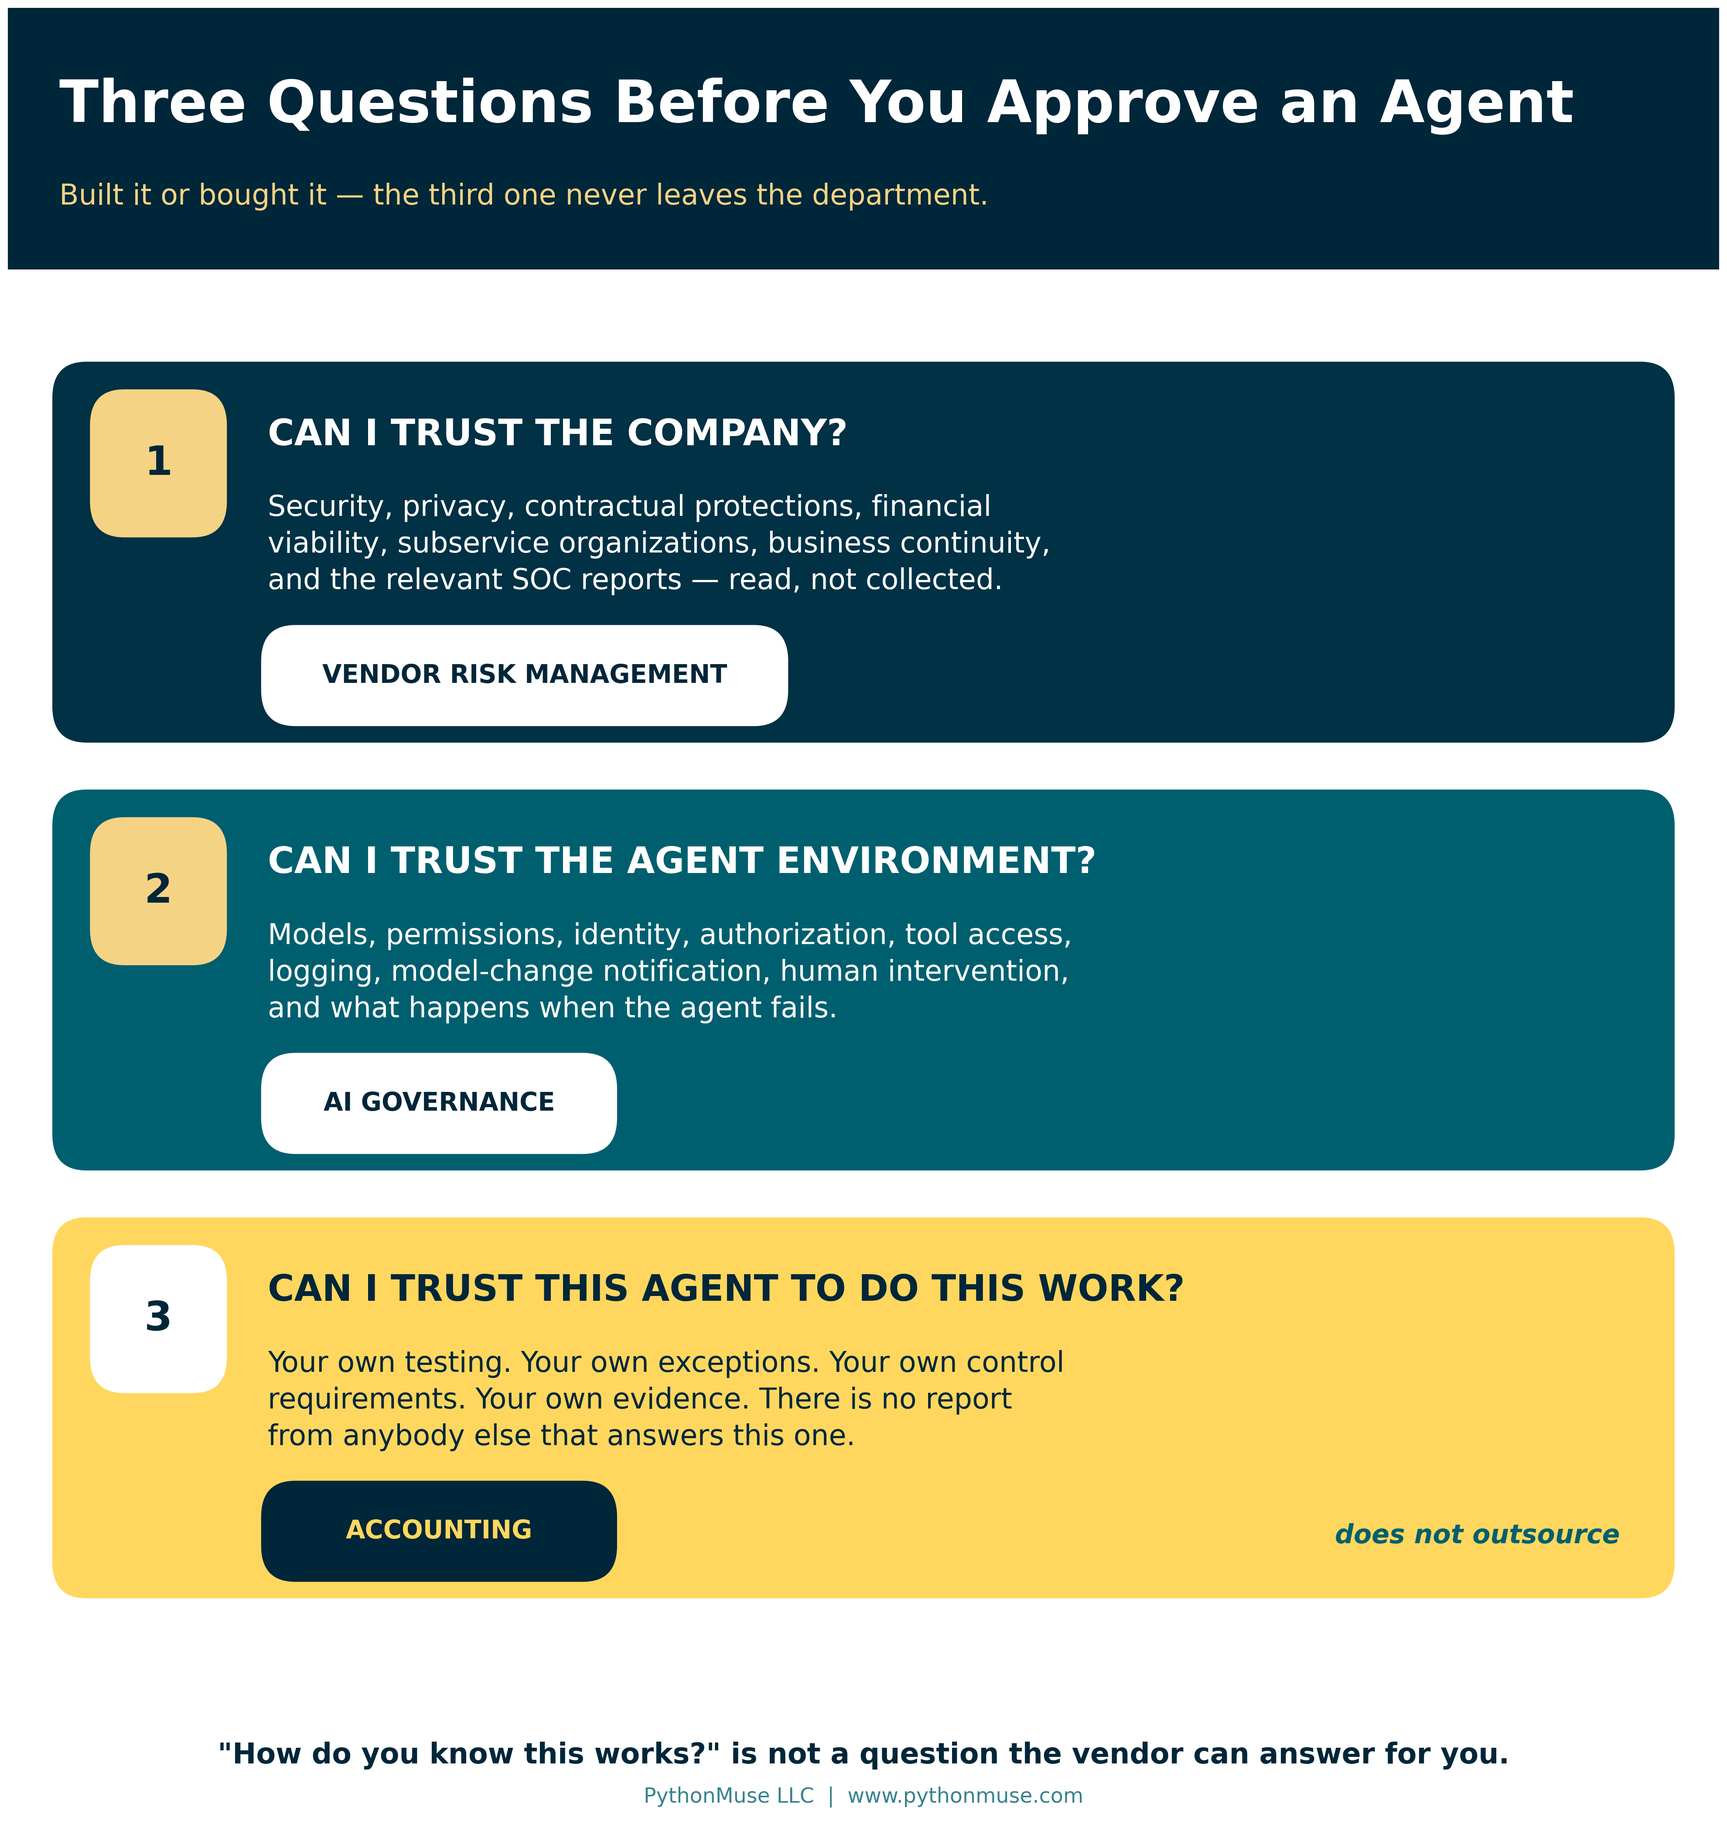
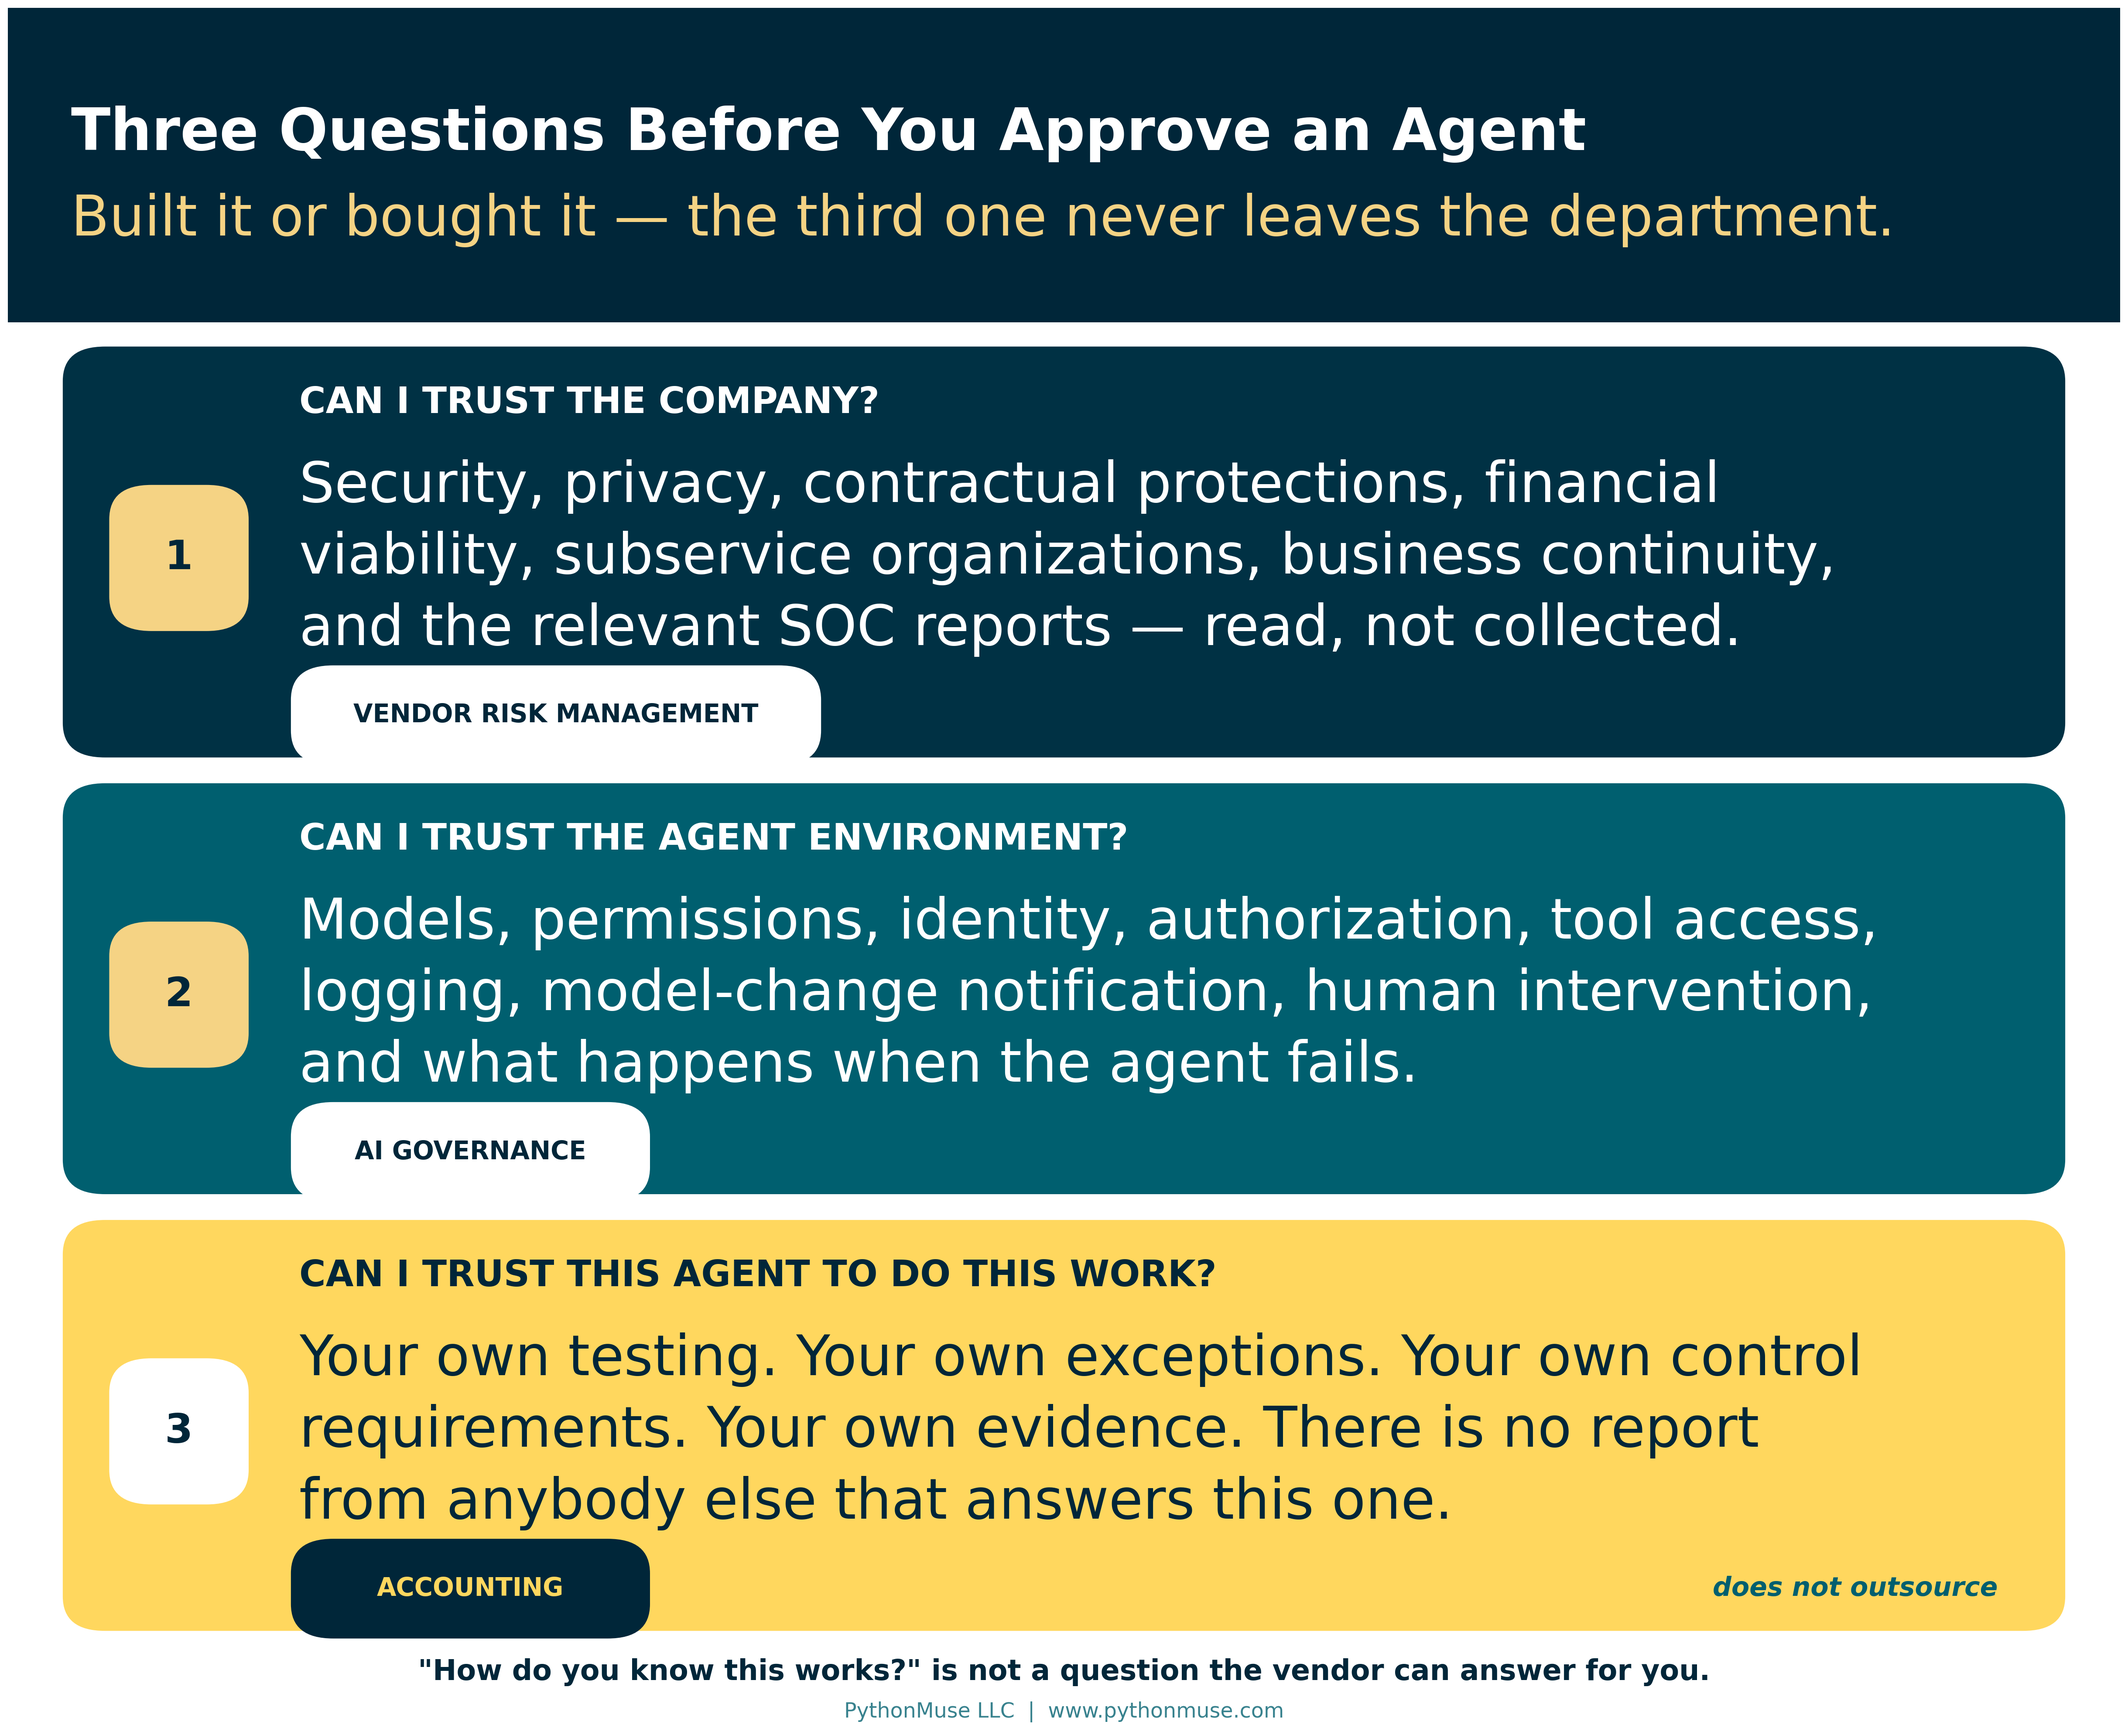
Double the header subtitle and body text in 39_three_questions.png
Design fontsize 21 -> 42 for both the header subtitle ("Built it or
bought it...") and the body paragraph in all three cards ("Security,
privacy...", "Models, permissions...", "Your own testing...") -- exactly
the 2x asked for. The question heading, number badge, and owner chip were
not part of this request and keep their original absolute size; since
canvas width/height both had to grow to give the doubled body room, the
badge and owner-chip boxes (sized as canvas fractions) were recomputed so
their physical size doesn't drift just because the canvas under them grew.

One thing worth flagging: doubling the subtitle puts it at a final ~51pt
against the title's ~53pt -- they now read as nearly the same size. That's
a literal, faithful 2x; if the subtitle wasn't meant to get this close to
the title, it needs a different (smaller) target than a flat doubling.

Rebuilt the card's vertical stack around the now much taller body block,
then tightened the canvas height on a second pass -- the first draft left
more slack below the third card than between the cards themselves.

diff --git a/articles/39-buy-platform-own-accounting-logic/generate_visuals.py b/articles/39-buy-platform-own-accounting-logic/generate_visuals.py
@@ -524,15 +524,32 @@ TRUST_QUESTIONS = [
 
 
 def make_three_questions():
-    fig, ax = blank_axes(canvas(17.8, 18.8))
+    # The header subtitle and the three-card body paragraph double here --
+    # design 21 -> 42, exactly the "at least 2x" asked for. The question
+    # heading, number badge, and owner chip are NOT part of this ask and
+    # keep their old absolute size; because canvas width/height both have
+    # to grow to give the doubled body room, the badge and owner-chip boxes
+    # (sized as canvas fractions) are recomputed so their PHYSICAL size
+    # stays put rather than growing along with the canvas by accident.
+    fig, ax = blank_axes(canvas(22.0, 17.9))
     add_header_bar(fig, "Three Questions Before You Approve an Agent",
                    "Built it or bought it — the third one never leaves the department.",
-                   height=0.145, title_size=43, subtitle_size=21, brand=False)
+                   height=0.183, title_size=43, subtitle_size=42, brand=False)
 
-    top = 0.800
-    card_h = 0.203
-    gap = 0.034
+    top = 0.799
+    card_h = 0.231
+    gap = 0.023
     x, w = 0.03, 0.94
+
+    # Badge and owner-chip boxes, re-expressed for the new canvas so their
+    # absolute (inch) size matches what they were before this edit.
+    badge_w, badge_h = 0.058, 0.077
+    owner_chip_h = 0.050
+
+    # Vertical anchors as fractions of card_h -- rebuilt from scratch around
+    # the doubled body block rather than reusing the old fractions, which
+    # were sized for a body block less than half this height.
+    heading_y, body_y, owner_y = 0.876, 0.485, 0.089
 
     for i, (num, question, fill, body, owner) in enumerate(TRUST_QUESTIONS):
         y = top - i * (card_h + gap) - card_h
@@ -543,30 +560,28 @@ def make_three_questions():
         body_col = DEEP_NAVY if on_light else WHITE
         note_col = OCEAN_TEAL if on_light else WARM_GLOW
 
-        # Number badge.
+        # Number badge, aligned with the body block it labels.
         badge_fill = WHITE if on_light else WARM_GLOW
-        rounded_box(ax, (x + 0.022, y + card_h * 0.56), 0.072, 0.074,
+        rounded_box(ax, (x + 0.022, y + card_h * body_y - badge_h / 2), badge_w, badge_h,
                     badge_fill, text_color=DEEP_NAVY, text=num, fontsize=30)
 
-        text_left = x + 0.022 + 0.072 + 0.028
-        ax.text(text_left, y + card_h * 0.820, question, fontsize=pt(27),
+        text_left = x + 0.022 + badge_w + 0.028
+        ax.text(text_left, y + card_h * heading_y, question, fontsize=pt(27),
                 fontweight="bold", color=head_col, ha="left", va="center",
                 zorder=4)
-        # Body sits higher than the first pass so the owner chip below it has
-        # real clearance instead of touching the body's last line.
-        ax.text(text_left, y + card_h * 0.520, body, fontsize=pt(21),
+        ax.text(text_left, y + card_h * body_y, body, fontsize=pt(42),
                 color=body_col, ha="left", va="center", zorder=4,
                 linespacing=1.40)
 
         # Owner chip, bottom-left under the body, widened for its label.
-        chip_w = 0.30 if len(owner) > 16 else 0.20
-        rounded_box(ax, (text_left, y + card_h * 0.045), chip_w, 0.048,
+        chip_w = 0.243 if len(owner) > 16 else 0.162
+        rounded_box(ax, (text_left, y + card_h * owner_y - owner_chip_h / 2), chip_w, owner_chip_h,
                     DEEP_NAVY if on_light else WHITE,
                     text_color=GOLDEN_YELLOW if on_light else DEEP_NAVY,
                     text=owner, fontsize=19)
 
         if i == 2:
-            ax.text(x + w - 0.028, y + card_h * 0.150,
+            ax.text(x + w - 0.028, y + card_h * owner_y,
                     "does not outsource", fontsize=pt(20), fontweight="bold",
                     color=OCEAN_TEAL, ha="right", va="center", zorder=4,
                     style="italic")
